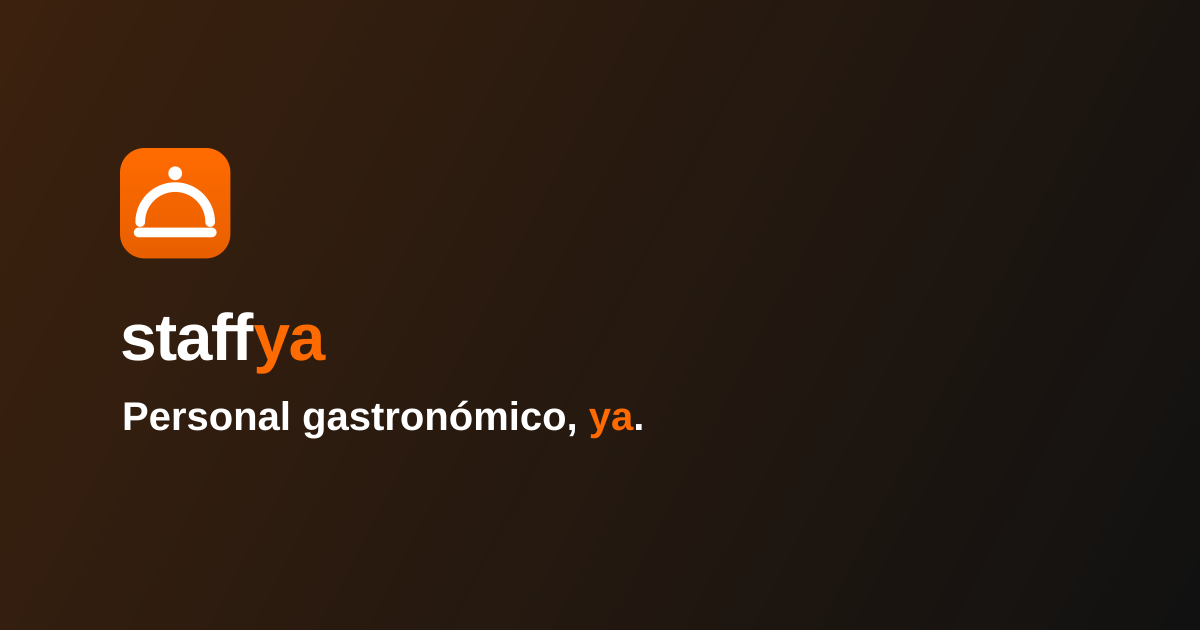
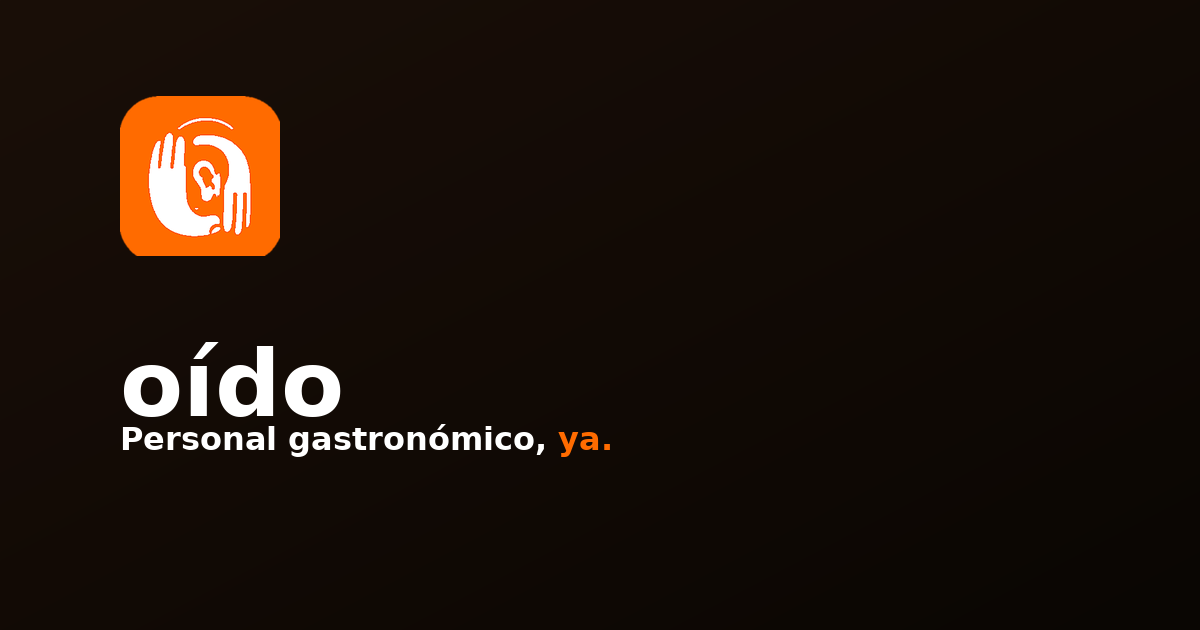
identidad: nuevo isotipo de Oido (mano + oreja) en todos los assets
Reemplaza "la cloche" por el isotipo del diseñador (mano ahuecada sobre la
oreja) como placeholder rasterizado, a partir del mockup de la Opcion 2
(Editorial). Regenera todos los assets de marca a partir de la misma fuente:

- icon-192 / icon-512: tile naranja con esquinas redondeadas + trazo crema.
- icon-maskable-512: full-bleed naranja con la figura en zona segura.
- apple-icon (180) y favicon.ico (16/32/48).
- badge-96: solo el canal alfa (figura sin tile), para el badge de Android.
- og-image (1200x630): mark + wordmark "oido" sobre el fondo oscuro de marca.
- Logo.tsx: LogoMark usa el raster; LogoGlyph tine la silueta via CSS mask.
- SplashScreen: wordmark "oido" (quedaba "staffya").

Es un placeholder: la fuente es un raster del mockup, no el SVG vectorial
final del disenador (pendiente en docs/BRIEF_IDENTIDAD_VISUAL.md). Nunca se
usa a mas de 48px en el codigo, asi que no pierde nitidez.

Claude-Session: https://claude.ai/code/session_01PEcT4a33sqPwfRdcApt7vW

diff --git a/frontend/components/Logo.tsx b/frontend/components/Logo.tsx
@@ -1,70 +1,44 @@
-"use client";
-
-import { useId } from "react";
-
 /**
- * Marca Oído: "la cloche" (campana de servicio), símbolo universal del
- * salón gastronómico premium. Geometría fija (spec de marca): pomo, domo y
- * plato en blanco. El mismo degradé naranja que --color-primary /
- * --color-primary-strong en globals.css (antes el SVG usaba el naranja
- * default de Tailwind, que no coincidía con el token real de la app).
+ * Marca Oído: mano ahuecada sobre la oreja (gesto de "¡oído!, va la orden"),
+ * placeholder rasterizado a partir del ícono real del diseñador — no es el
+ * SVG vectorial final (ver docs/BRIEF_IDENTIDAD_VISUAL.md y el pendiente de
+ * reemplazo por el export vectorial del diseñador). El asset fuente nunca
+ * se usa a más de 48px en el código, así que el raster no pierde nitidez.
  *
- * `LogoGlyph` es sólo el trazo (pomo + domo + plato), sin tile de fondo —
- * lo reusa SplashScreen sobre su propia tarjeta blanca. `LogoMark` agrega el
- * tile naranja (uso estándar: Navbar, favicon/app icons). `Logo` agrega el
- * wordmark y es el default export que ya consumen Navbar, login/register/
- * recuperar/restablecer y la landing.
+ * `LogoGlyph` es sólo el trazo (mano + oreja), sin tile de fondo — se tiñe
+ * del color pedido vía CSS mask (`logo-figure.png` sólo aporta la silueta
+ * en su canal alfa). Lo reusa SplashScreen/EmptyState sobre superficie
+ * neutra. `LogoMark` agrega el tile naranja ya horneado (uso estándar:
+ * Navbar, favicon/app icons). `Logo` agrega el wordmark y es el default
+ * export que ya consumen Navbar, login/register/recuperar/restablecer y la
+ * landing.
  */
 export function LogoGlyph({ size = 28, color = "#fff" }: { size?: number; color?: string }) {
   return (
-    <svg width={size} height={size} viewBox="0 0 24 24" fill="none" xmlns="http://www.w3.org/2000/svg" aria-hidden>
-      <circle cx="12" cy="5.5" r="1.5" fill={color} />
-      <path
-        d="M4.4 16.1 A 7.6 7.6 0 0 1 19.6 16.1"
-        stroke={color}
-        strokeWidth="2.1"
-        strokeLinecap="round"
-        fill="none"
-      />
-      <rect x="3" y="17.3" width="18" height="2.1" rx="1.05" fill={color} />
-    </svg>
+    <span
+      role="img"
+      aria-label="Oído"
+      style={{
+        display: "inline-block",
+        width: size,
+        height: size,
+        backgroundColor: color,
+        WebkitMaskImage: "url(/logo-figure.png)",
+        maskImage: "url(/logo-figure.png)",
+        WebkitMaskSize: "contain",
+        maskSize: "contain",
+        WebkitMaskRepeat: "no-repeat",
+        maskRepeat: "no-repeat",
+        WebkitMaskPosition: "center",
+        maskPosition: "center",
+      }}
+    />
   );
 }
 
 export function LogoMark({ size = 28 }: { size?: number }) {
-  const gradientId = useId();
-  return (
-    <svg
-      width={size}
-      height={size}
-      viewBox="0 0 24 24"
-      fill="none"
-      xmlns="http://www.w3.org/2000/svg"
-      role="img"
-      aria-label="Oído"
-    >
-      <defs>
-        <linearGradient id={gradientId} x1="0" y1="0" x2="0" y2="24" gradientUnits="userSpaceOnUse">
-          <stop stopColor="#ff6b00" />
-          <stop offset="1" stopColor="#e85f00" />
-        </linearGradient>
-      </defs>
-      {/* Tile: cuadrado redondeado, rx ~22% del lado */}
-      <rect width="24" height="24" rx="5.3" fill={`url(#${gradientId})`} />
-      {/* Pomo */}
-      <circle cx="12" cy="5.5" r="1.5" fill="#fff" />
-      {/* Domo */}
-      <path
-        d="M4.4 16.1 A 7.6 7.6 0 0 1 19.6 16.1"
-        stroke="#fff"
-        strokeWidth="2.1"
-        strokeLinecap="round"
-        fill="none"
-      />
-      {/* Plato base */}
-      <rect x="3" y="17.3" width="18" height="2.1" rx="1.05" fill="#fff" />
-    </svg>
-  );
+  // eslint-disable-next-line @next/next/no-img-element -- ícono chico (≤48px), no amerita next/image
+  return <img src="/logo-mark.png" width={size} height={size} alt="Oído" />;
 }
 
 export default function Logo({
@@ -78,9 +52,7 @@ export default function Logo({
     <span className="inline-flex items-center gap-2">
       <LogoMark size={size} />
       {withWordmark && (
-        <span className="text-xl font-extrabold tracking-tight text-ink">
-          staff<span className="text-primary-text">ya</span>
-        </span>
+        <span className="text-xl font-extrabold tracking-tight text-ink">oído</span>
       )}
     </span>
   );

diff --git a/frontend/public/sw.js b/frontend/public/sw.js
@@ -27,9 +27,10 @@ self.addEventListener("push", (event) => {
       icon: "/icon-192.png",
       // El badge (ícono chico de la barra de estado en Android) se dibuja
       // usando SÓLO el canal alfa: el sistema descarta los colores y pinta de
-      // blanco lo que sea opaco. `icon-192.png` es un tile naranja opaco de
-      // punta a punta, así que salía como un CUADRADO BLANCO sólido. Este
-      // badge tiene fondo transparente y sólo la cloche opaca.
+      // blanco lo que sea opaco. `icon-192.png` es el tile completo (naranja +
+      // trazo), así que como badge salía como una MANCHA blanca sin forma
+      // reconocible. Este badge tiene fondo transparente y sólo el trazo
+      // (mano + oreja) opaco, sin el tile de fondo.
       badge: "/badge-96.png",
       data: { url },
       // Tag ÚNICO por notificación. Antes todas compartían "staffya-push", así

diff --git a/frontend/components/SplashScreen.tsx b/frontend/components/SplashScreen.tsx
@@ -105,7 +105,7 @@ export default function SplashScreen() {
             transition={reducedMotion ? { duration: 0 } : { delay: 0.35, duration: 0.5 }}
             className="relative mt-6 text-4xl font-extrabold tracking-tight text-white"
           >
-            staff<span className="text-orange-200">ya</span>
+            oído
           </motion.h1>
           <motion.p
             initial={reducedMotion ? false : { y: 12, opacity: 0 }}
